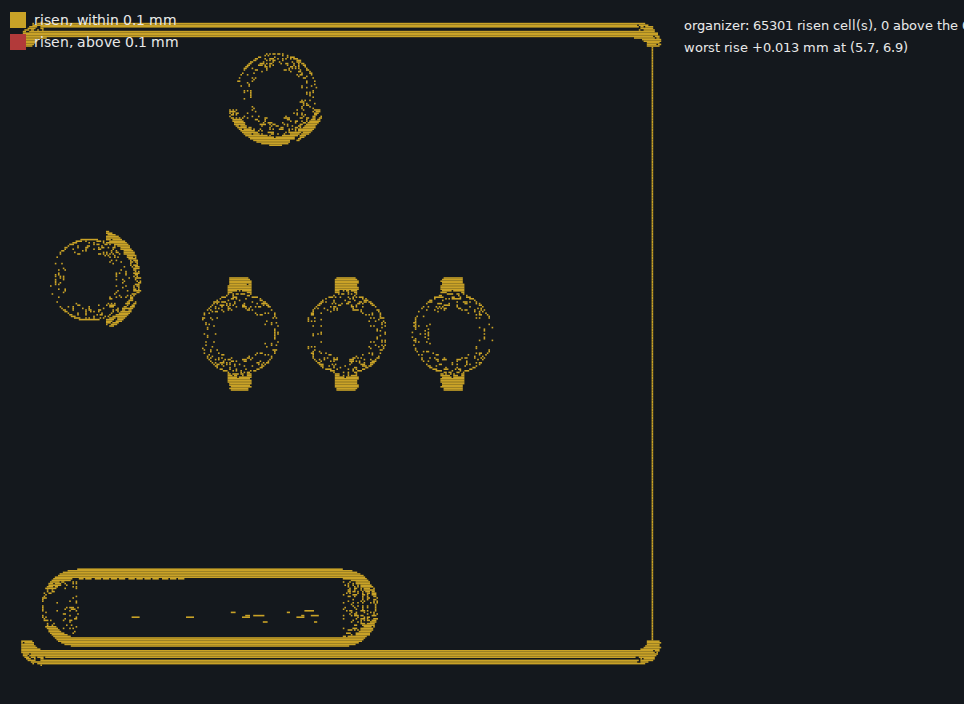
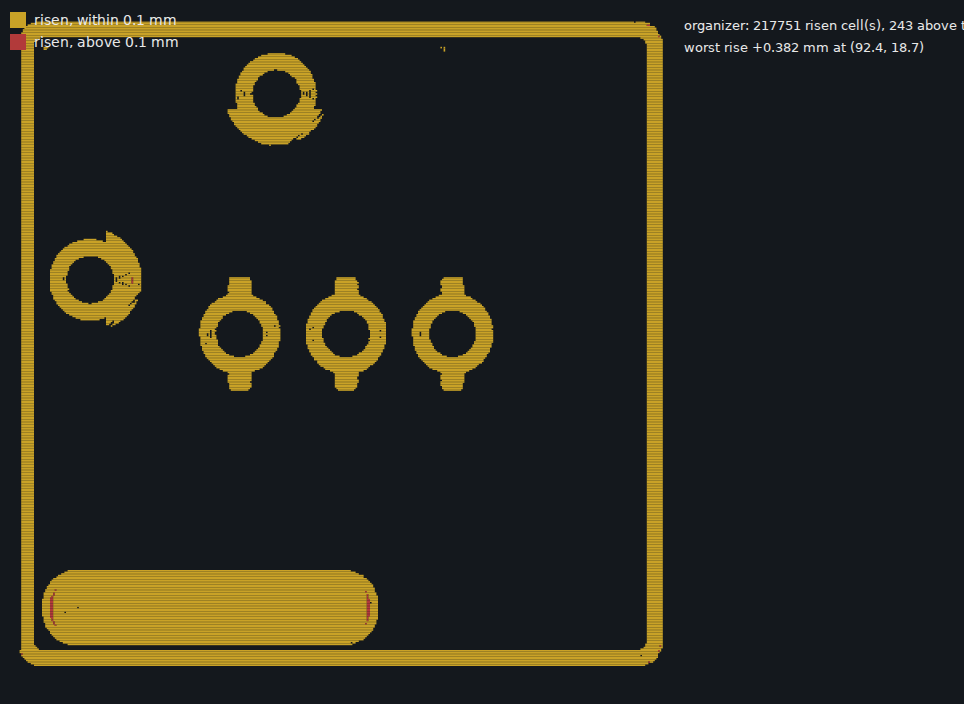
fix(tools): the risen-cell read uses designCheck's sign — leftover is top minus goal (#960)
The tool and the acceptance block computed goal − union, which is CUT-INTO, not the
material standing above the goal. Corrected to union − goal (designCheck's d = top − goal).

Re-measured for the priced lever (pre-#960 → 68846cae):
- tray: 85,076 risen cells, 0 newly above the 0.1 mm band, worst rise +0.031 mm
  (highest risen leftover 0.033 mm);
- organizer: 217,751 risen cells, 243 newly above the band, worst rise +0.382 mm
  at (92.4, 18.7), highest risen leftover 0.785 mm — the lever's own small cost,
  while the card's exact coverage did not fall (98.6111 → 98.6131 %).
Pictures regenerated under docs/bench/img/2026-11-05-960-risen/.

Changed region(s): [[0.0, 0.0312, 0.6846, 0.9688], [0.1867, 0.4062, 0.529, 0.5625], [0.778, 0.0312, 1.0, 0.0938]]

diff --git a/casemaker-app/tests/unit/opsAcceptance959.spec.ts b/casemaker-app/tests/unit/opsAcceptance959.spec.ts
@@ -1255,8 +1255,9 @@ describe.skipIf(BEFORE_PICS === undefined || AFTER_PICS === undefined)('#960 —
       let worstLeftover = 0;
       let worstAt = '';
       for (let k = 0; k < before.goal.length; k++) {
-        const base = Math.max(0, before.goal[k]! - before.union[k]!);
-        const now = Math.max(0, after.goal[k]! - after.union[k]!);
+        // Leftover is the swept surface standing ABOVE the goal (designCheck's own sign: d = top - goal).
+        const base = Math.max(0, before.union[k]! - before.goal[k]!);
+        const now = Math.max(0, after.union[k]! - after.goal[k]!);
         if (now > base + 1e-6) {
           risen++;
           if (now > worstLeftover) worstLeftover = now;

diff --git a/casemaker-app/tests/tools/risen-cells-960.ts b/casemaker-app/tests/tools/risen-cells-960.ts
@@ -61,8 +61,9 @@ let worstRise = 0;
 let worstLeftover = 0;
 let worstAt = '';
 for (let k = 0; k < cls.length; k++) {
-  const base = Math.max(0, b.goal[k]! - b.union[k]!);
-  const now = Math.max(0, a.goal[k]! - a.union[k]!);
+  // Leftover is the swept surface standing ABOVE the goal (designCheck's own sign: d = top - goal).
+  const base = Math.max(0, b.union[k]! - b.goal[k]!);
+  const now = Math.max(0, a.union[k]! - a.goal[k]!);
   if (!(now > base + 1e-6)) continue;
   risen++;
   // 'Newly above' is the acceptance's rule: the cell was WITHIN the band and is now ABOVE it.
